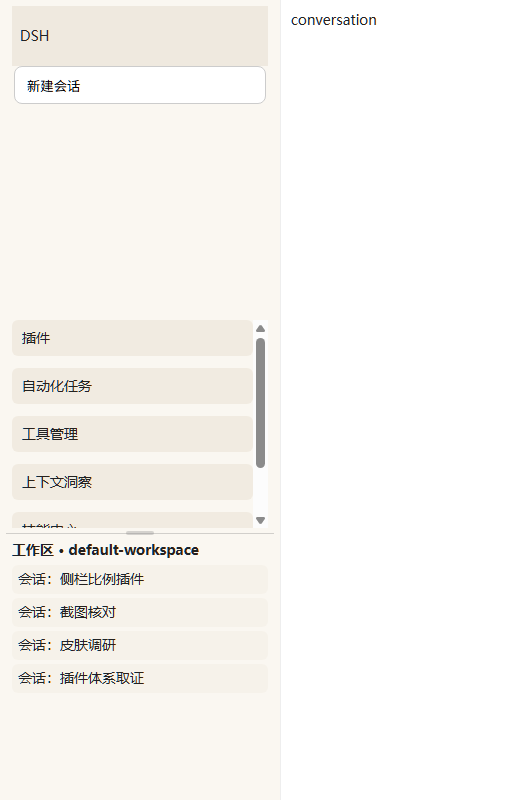
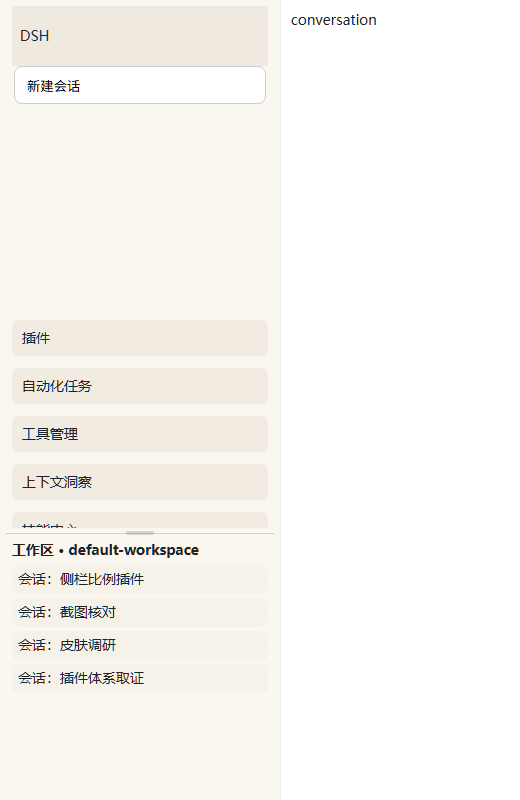
feat: 分隔线可滑到两端 0px
- 比例范围放宽到 0–1，minTools / minSessions 默认 0（可配置成保底像素值）
- 改用 height 作为权威高度：只写 max-height 时工具项比分配值矮就撑不满，
  会话区永远压不到 0；现在两端都能真正到 0px
- 贴边吸附 12px：差一点没拖到端点时自动贴到 0 / 满
- 拖到两端后 share 回写为 0 / 1，resize 不会又弹回中间
- 工具列表收到 0px 时提示条不再隐藏（否则拖不回来），并夹在侧栏内容盒内
- 测试补极值用例（set 0 / 1 / 0.01 / 0.99）：logic-test 28 项通过

Changed region(s): [[0.4615, 0.375, 0.5231, 0.6562]]

diff --git a/lib/split.js b/lib/split.js
@@ -29,13 +29,13 @@
 
 	function clampShare(value) {
 		if (!isFinite(value)) return 0.45
-		return Math.min(0.95, Math.max(0.02, value))
+		return Math.min(1, Math.max(0, value))
 	}
 
 	var OPT = {
 		share: clampShare(num(CFG.share, 0.45)),
-		minTools: Math.max(0, num(CFG.minTools, 96)),
-		minSessions: Math.max(0, num(CFG.minSessions, 140)),
+		minTools: Math.max(0, num(CFG.minTools, 0)),
+		minSessions: Math.max(0, num(CFG.minSessions, 0)),
 		enabled: CFG.enabled !== false
 	}
 
@@ -48,6 +48,9 @@
 		startShare: OPT.share,
 		avail: 0
 	}
+
+	/** 离两端不足这么多像素就直接贴到 0 / 满，避免「差一点滑不到底」。 */
+	var SNAP_PX = 12
 
 	var els = { root: null, nav: null, region: null, foot: null, handle: null, style: null }
 	var lastMeasure = null
@@ -148,6 +151,10 @@
 		var tools = state.share * budget
 		tools = Math.max(floor, Math.min(tools, ceiling))
 		tools = Math.max(0, Math.min(tools, budget))
+		// 贴边吸附：让「滑到顶 = 工具列表 0px」「滑到底 = 会话区 0px」真的成立，
+		// 而不是停在离端点十几像素的地方。只有在对应下限被关掉（0）时才吸附。
+		if (floor <= 0 && tools <= SNAP_PX) tools = 0
+		else if (ceiling >= budget && budget - tools <= SNAP_PX) tools = budget
 
 		return {
 			contentTop: contentTop,
@@ -167,6 +174,7 @@
 	function clearInline() {
 		if (!els.nav) return
 		var style = els.nav.style
+		if (style.height !== '') style.height = ''
 		if (style.maxHeight !== '') style.maxHeight = ''
 		if (style.overflowY !== '') style.overflowY = ''
 		if (style.overflowX !== '') style.overflowX = ''
@@ -191,15 +199,23 @@
 			return
 		}
 		lastMeasure = measured
+		// 比例与像素保持一致：拖到两端时 share 落到 0 / 1（下次 resize 不会又弹回来）。
+		if (measured.budget > 0) {
+			if (measured.tools <= 0) state.share = 0
+			else if (measured.tools >= measured.budget) state.share = 1
+		}
 		var nav = els.nav
 		var wanted = Math.round(measured.tools) + 'px'
+		// height 是权威值，max-height 只是保险：只写 max-height 时，工具项比分配值矮就撑不满，
+		// 分隔线永远到不了底（会话区压不到 0）。max-height 仍保留，避免异常内容把布局顶穿。
+		if (nav.style.height !== wanted) nav.style.height = wanted
 		if (nav.style.maxHeight !== wanted) nav.style.maxHeight = wanted
 		if (nav.style.overflowY !== 'auto') {
 			nav.style.overflowY = 'auto'
 			nav.style.overflowX = 'hidden'
 		}
 		if (nav.style.minHeight !== '0px') nav.style.minHeight = '0px'
-		if (nav.style.flex !== '0 1 auto') nav.style.flex = '0 1 auto'
+		if (nav.style.flex !== '0 0 auto') nav.style.flex = '0 0 auto'
 		if (els.region && els.region.style.minHeight !== '0px') els.region.style.minHeight = '0px'
 		updateHandle()
 	}
@@ -265,21 +281,23 @@
 	function updateHandle() {
 		var handle = ensureHandle()
 		var nav = els.nav
-		if (!nav || state.enabled === false || collapsed()) {
+		if (!nav || nav.isConnected === false || state.enabled === false || collapsed()) {
 			handle.style.display = 'none'
 			return
 		}
 		var navRect = nav.getBoundingClientRect()
 		var rootRect = els.root.getBoundingClientRect()
-		if (navRect.height <= 0) {
-			handle.style.display = 'none'
-			return
-		}
+		// nav 收到 0px 时继续显示提示条（此时它就是「从 0 拖回来」的唯一抓手）。
 		// 把线放在 nav 与 region 之间的留白里（nav 有 margin-bottom），别压在滚动的文字上。
 		var gap = lastMeasure ? lastMeasure.gap : 0
 		var offset = gap >= 10 ? Math.round(gap / 2) : 0
 		handle.style.display = 'block'
-		handle.style.top = Math.round(navRect.bottom + offset - 6) + 'px'
+		var top = Math.round(navRect.bottom + offset - 6)
+		var minTop = Math.round(rootRect.top + 2)
+		var maxTop = Math.round(rootRect.bottom - 14)
+		if (top < minTop) top = minTop
+		if (top > maxTop) top = maxTop
+		handle.style.top = top + 'px'
 		handle.style.left = Math.round(rootRect.left + 6) + 'px'
 		handle.style.width = Math.max(24, Math.round(rootRect.width - 12)) + 'px'
 	}

diff --git a/test/fixture.html b/test/fixture.html
@@ -50,7 +50,13 @@ main{padding:10px;background:#fff;border-left:1px solid #eee}
 <script>
   var params = new URLSearchParams(location.search)
   if (params.get('skin') === '1') document.body.setAttribute('data-skin', '')
-  window.__DSH_SIDEBAR_SPLIT__ = { share: 0.45, minTools: 96, minSessions: 140, enabled: params.get('off') !== '1' }
+  var bootShare = parseFloat(params.get('share'))
+  window.__DSH_SIDEBAR_SPLIT__ = {
+    share: isFinite(bootShare) ? bootShare : 0.45,
+    minTools: 0,
+    minSessions: 0,
+    enabled: params.get('off') !== '1'
+  }
 </script>
 <script src="../lib/split.js"></script>
 <script>
@@ -59,6 +65,7 @@ main{padding:10px;background:#fff;border-left:1px solid #eee}
   function q(sel) { return document.querySelector(sel) }
   window.addEventListener('load', function () {
     setTimeout(function () {
+      if (params.get('quiet') === '1') return
       var nav = q('nav[class*="panelList"]')
       var region = q('[class*="regionArea"]')
       var handle = document.getElementById('dsh-sidebar-split-handle')
@@ -77,17 +84,27 @@ main{padding:10px;background:#fff;border-left:1px solid #eee}
       log('handleShown', handle ? handle.style.display + '@' + handle.style.top : 'missing')
       if (handle) {
         var hr = handle.getBoundingClientRect()
-        var hb = getComputedStyle(handle, ':before')
-        var ha = getComputedStyle(handle, ':after')
+        var line = handle.querySelector('i.line')
+        var grip = handle.querySelector('i.grip')
+        var lc = line ? getComputedStyle(line) : null
+        var gc = grip ? getComputedStyle(grip) : null
         log('handleRect', [hr.left, hr.top, hr.width, hr.height].map(Math.round).join('/'))
-        log('handleLine', hb.height + ' ' + hb.backgroundColor + ' op=' + hb.opacity)
-        log('handleGrip', ha.width + 'x' + ha.height + ' ' + ha.backgroundColor + ' op=' + ha.opacity)
+        log('handleLine', lc ? lc.height + ' ' + lc.backgroundColor + ' op=' + lc.opacity : 'missing')
+        log('handleGrip', gc ? gc.width + 'x' + gc.height + ' ' + gc.backgroundColor + ' op=' + gc.opacity : 'missing')
       }
       var before = nav.style.maxHeight
       window.dshSidebarSplit.set(0.2)
       log('set20', before + ' -> ' + nav.style.maxHeight + ', ' + JSON.stringify(window.dshSidebarSplit.get()))
       window.dshSidebarSplit.set(80)
       log('set80', nav.style.maxHeight + ', ' + JSON.stringify(window.dshSidebarSplit.get()) + ', regionH=' + Math.round(region.getBoundingClientRect().height))
+      window.dshSidebarSplit.set(0)
+      log('set0', nav.style.maxHeight + ', navH=' + Math.round(nav.getBoundingClientRect().height) +
+        ', regionH=' + Math.round(region.getBoundingClientRect().height) +
+        ', handle=' + (handle ? handle.style.display + '@' + handle.style.top : 'missing'))
+      window.dshSidebarSplit.set(1)
+      log('set100', nav.style.maxHeight + ', navH=' + Math.round(nav.getBoundingClientRect().height) +
+        ', regionH=' + Math.round(region.getBoundingClientRect().height) +
+        ', handle=' + (handle ? handle.style.display + '@' + handle.style.top : 'missing'))
       window.dshSidebarSplit.reset()
       log('reset', nav.style.maxHeight + ', get=' + JSON.stringify(window.dshSidebarSplit.get()))
       window.dshSidebarSplit.enabled(false)

diff --git a/README.md b/README.md
@@ -19,7 +19,8 @@ DSH 原生侧栏把面板列表写成固定高度、会话区写成 `flex:1`：
 
 于是当工具项变多、或者皮肤给顶部品牌区预留了立绘舞台，`regionArea` 会被压到 `0`，
 **整个会话列表消失**——插件装得越多越容易撞上。本插件把面板列表改成
-「按比例封顶 + 自身可滚动」，会话区永远留够 `minSessions`。
+「按比例封顶 + 自身可滚动」，默认两端都能拖到底（工具列表可收到 `0px`，会话区也能收到 `0px`），
+想要保底可以配置 `minTools` / `minSessions`。
 
 ## 安装
 
@@ -58,9 +59,9 @@ dsh plugin --profile desktop add link:<本仓库绝对路径>
     - id: sidebar-split
       name: 'dsh-sidebar-split'
       config:
-        share: 0.45        # 面板列表占「面板列表 + 会话区」可用高度的比例
-        minTools: 96       # 面板列表像素下限
-        minSessions: 140   # 会话区像素下限
+        share: 0.45        # 面板列表占「面板列表 + 会话区」可用高度的比例（0–1，两端到底）
+        minTools: 0        # 面板列表像素下限；0 = 允许完全收起
+        minSessions: 0     # 会话区像素下限；0 = 允许完全收起
         enabled: true      # 总开关；false = 完全不接管（页面里也改不回来）
 ```
 
@@ -93,7 +94,9 @@ dsh plugin --profile desktop add link:<本仓库绝对路径>
 - **按 rect 差分算高度**，不写死数值。皮肤会把面板列表整体 `margin-top` 下推几十到两百像素，
   还有折叠导轨、窗口缩放、底部区域高度变化，写死任何一个数都会错位。
 - **双夹**：先按比例算，再夹到 `[minTools, budget − minSessions]`，最后硬夹到 `[0, budget]`，
-  空间实在不够时也不会把会话区挤成负数。
+  空间实在不够时也不会把会话区挤成负数；比例本身夹在 `0`–`1`。
+- **两端到底**：`minTools` / `minSessions` 默认 `0`，所以能把工具列表拖成 `0px`（会话区占满），
+  也能把会话区拖成 `0px`（工具列表占满）；离端点不足 12px 会自动吸附到端点，不用精确对位。
 - **健壮性**：`MutationObserver`(body) + `ResizeObserver`(root / nav / region) + `window.resize`，
   外加 1.5s 自愈轮询；`__dshSidebarSplitBooted` 保证重复注入只跑一次；侧栏折叠（宽度 < 90px）
   或找不到节点时自动退回原生行为。
@@ -166,7 +169,7 @@ dsh plugin --profile desktop add dsh-sidebar-split   # restart DSH afterwards
 
 Drag the divider, or use `Alt+Shift+↑/↓` (3% steps), `Alt+Shift+0` / double-click to reset,
 `dshSidebarSplit.set(0.3)` from the console. Defaults live in `cordis.patch.yml`
-(`share`, `minTools`, `minSessions`, `enabled`); the chosen ratio is stored in `localStorage`.
+(`share`, `minTools`, `minSessions`, `enabled`; both minimums default to `0`, i.e. either pane can be collapsed completely); the chosen ratio is stored in `localStorage`.
 
 ## License
 

diff --git a/CHANGELOG.md b/CHANGELOG.md
@@ -10,9 +10,11 @@
 
 - 侧栏内部新增可拖动分隔线：在「工具 / 面板列表」与「工作区 + 会话列表」之间按比例分配高度。
 - 分隔线常驻可见（1px 细线 + 28×4 抓手），鼠标靠近变粗，拖拽时高亮。
-- 键盘：`Alt`+`Shift`+`↑` / `↓` 调整 3%，`Alt`+`Shift`+`0` 重置；双击分隔线同样重置。
+- 键盘：`Alt`+`Shift`+`↑` / `↓` 调整 3%（可一路按到 0% / 100%），`Alt`+`Shift`+`0` 重置；双击分隔线同样重置。
 - 控制台 API：`dshSidebarSplit.get()` / `set()` / `reset()` / `enabled()` / `refresh()` / `version`。
-- 双下限保护：工具列表不低于 `minTools`，会话区不低于 `minSessions`；比例本身夹在 2%–95%。
+- 两端可拖到底：工具列表能收到 `0px`（会话区占满），会话区也能收到 `0px`（工具列表占满）；
+  离端点不足 12px 自动吸附，比例本身夹在 `0`–`1`。
+- 可选下限保护：`minTools` / `minSessions` 默认 `0`（不保底），按需配置成固定像素值。
 - 比例持久化到 `localStorage`（`dsh.sidebar-split.v1`），刷新后保持。
 - 侧栏折叠成导轨、未注册任何面板、或 `enabled: false` 时自动交还原生行为。
 - 尺寸变化自适应：`MutationObserver` + `ResizeObserver` + `window.resize`，外加 1.5s 自愈检查。
